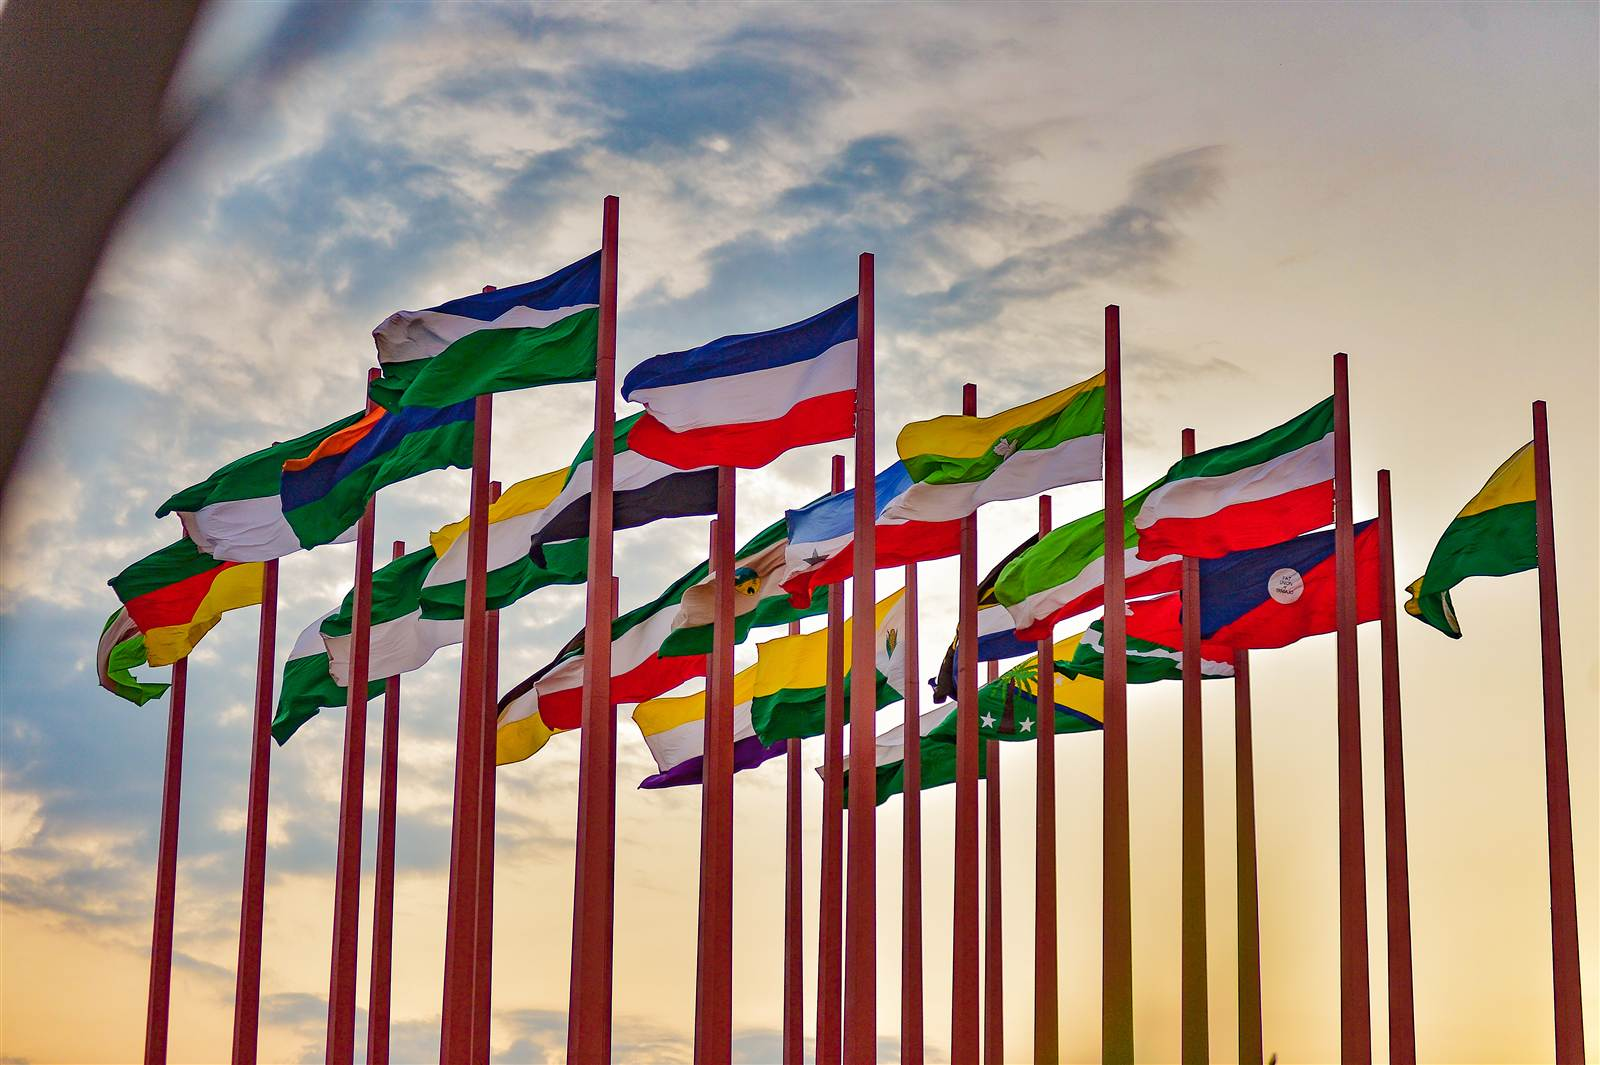
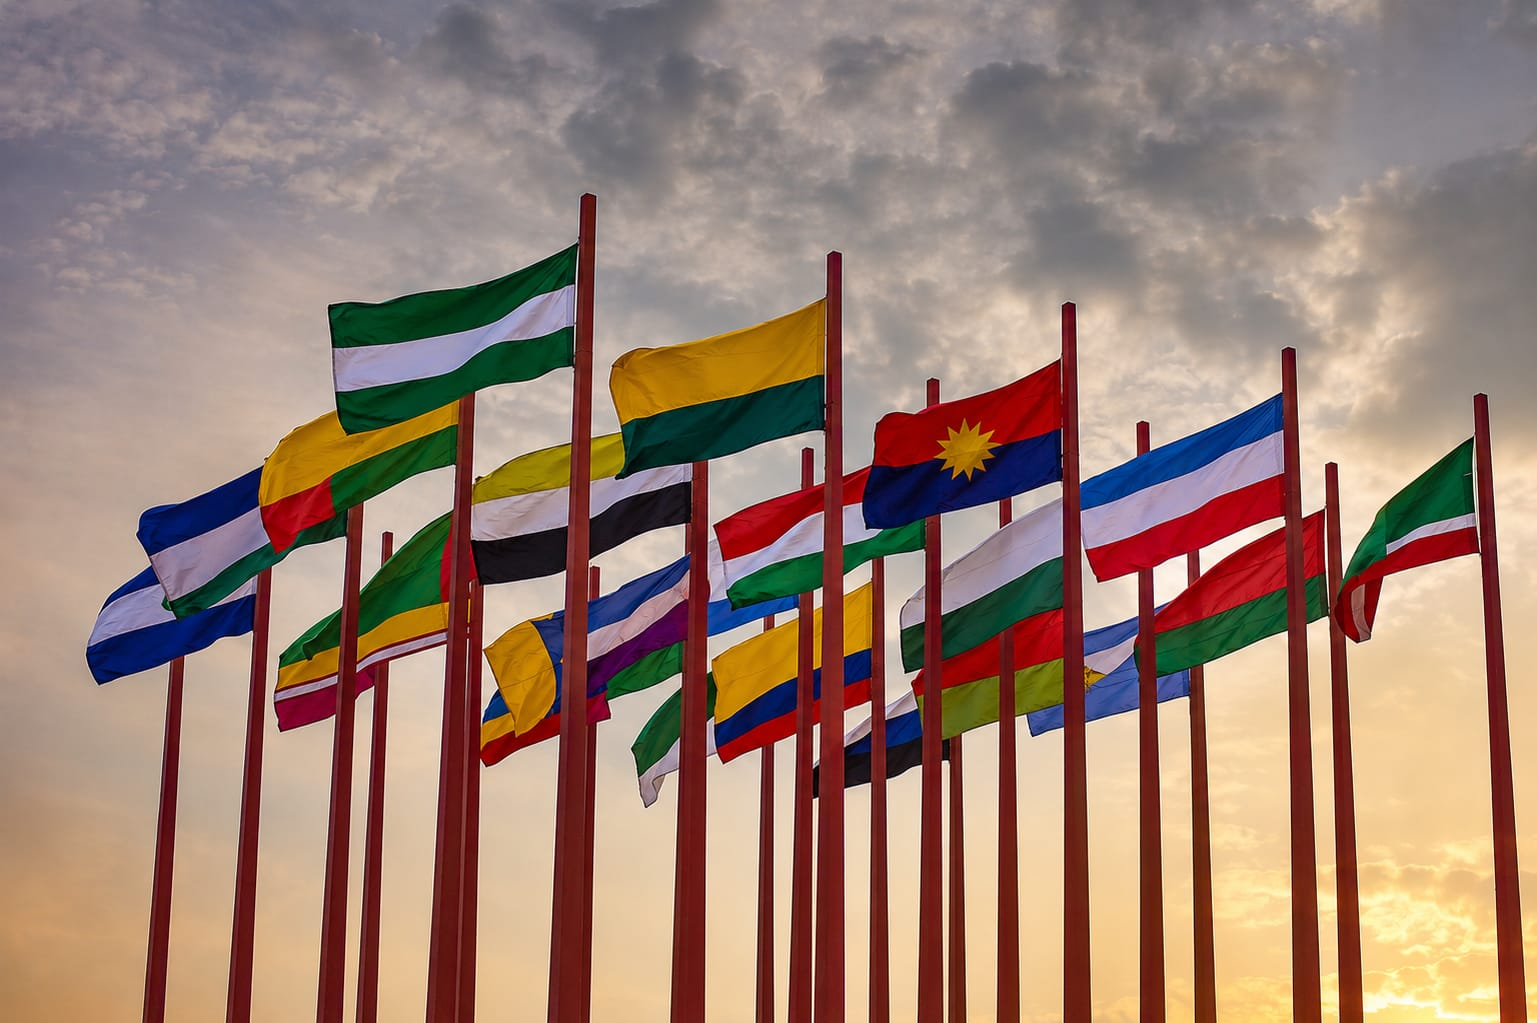
CTA del FAQ al estilo del sitio y fotos moviles en todo (v2.7.4)
- El CTA "No encontraste tu respuesta" del explorador de FAQ deja su
  degradado propio y pasa a tarjeta navy con los botones pill
  corporativos (ghost con borde blanco), con su modo oscuro.
- Variantes moviles -m.jpg (860px, 25-86KB) para las 14 fotos de las
  franjas de cierre, la ortofoto del visor y las 5 fotos de contenido
  (via srcSet). En celular ya NINGUNA imagen baja la version de
  escritorio: Nosotros pasa de ~700KB de fotos a 149KB.
- SITE_VERSION 2.7.3 -> 2.7.4.

diff --git a/app/globals.css b/app/globals.css
@@ -1659,18 +1659,16 @@ textarea.ne-input { resize: vertical; min-height: 96px; }
 .fq-none button:hover { background: var(--tt-blue-800); }
 
 /* CTA final */
+/* CTA final del FAQ — tarjeta navy sólida al estilo de las bandas oscuras
+   del rediseño, con los botones pill corporativos del sitio */
 .fq-cta { margin-top: 30px; display: flex; align-items: center; justify-content: space-between; gap: 18px; flex-wrap: wrap;
-  padding: 24px 26px; border-radius: 18px; color: #fff;
-  background: var(--hero-parcelas) no-repeat right -230px top -190px / 620px auto, var(--grad-hero); }
+  padding: 28px 30px; border-radius: 18px; color: #fff;
+  background: linear-gradient(135deg, #0C222F 0%, #163A4C 100%); }
 .fq-cta h2 { margin: 0; font: var(--fw-bold) var(--fs-lg)/1.25 var(--font-sans); color: #fff; }
 .fq-cta p { margin: 6px 0 0; font: var(--fw-regular) var(--fs-sm)/1.5 var(--font-sans); color: rgba(255,255,255,.82); }
 .fq-cta-actions { display: flex; gap: 10px; flex-wrap: wrap; }
-.fq-cta-btn { display: inline-flex; align-items: center; gap: 8px; height: 46px; padding: 0 20px; border-radius: 999px;
-  font: var(--fw-bold) var(--fs-sm)/1 var(--font-sans); text-decoration: none; transition: background .2s var(--ease-soft), transform .2s var(--ease-soft); }
-.fq-cta-btn.solid { background: var(--tt-green-600); color: #fff; }
-.fq-cta-btn.solid:hover { background: var(--tt-green-500); transform: translateY(-1px); }
-.fq-cta-btn.ghost { background: rgba(255,255,255,.1); border: 1px solid rgba(255,255,255,.35); color: #fff; }
-.fq-cta-btn.ghost:hover { background: rgba(255,255,255,.2); }
+.fq-cta .atg-pill.ghost { background: transparent; color: #fff; border-color: rgba(255,255,255,.55); }
+.fq-cta .atg-pill.ghost:hover { background: rgba(255,255,255,.14); }
 
 /* Casilla de consentimiento */
 .consent-label { display: flex; align-items: flex-start; gap: 11px; font: var(--fw-regular) var(--fs-sm)/1.5 var(--font-sans); color: var(--tt-gray-700); cursor: pointer; }
@@ -1917,10 +1915,8 @@ font[style] { background: none !important; box-shadow: none !important; transiti
 .dark .fq-cta { background: #131c23; border: 1px solid #2f3d47; }
 .dark .fq-cta h2 { color: #eaf1f6 !important; }
 .dark .fq-cta p { color: #c3d0d9; }
-.dark .fq-cta-btn.solid { background: var(--tt-green-600); color: #fff; }
-.dark .fq-cta-btn.solid:hover { background: var(--tt-green-500); }
-.dark .fq-cta-btn.ghost { background: rgba(255,255,255,.06); border-color: #3a4751; color: #eaf1f6; }
-.dark .fq-cta-btn.ghost:hover { background: rgba(255,255,255,.12); border-color: #4a5a66; }
+.dark .fq-cta .atg-pill.ghost { background: transparent; border-color: #3a4751; color: #eaf1f6; }
+.dark .fq-cta .atg-pill.ghost:hover { background: rgba(255,255,255,.12); }
 /* Anexos del PQRSD en modo oscuro */
 .dark .pq-drop { background: #0f171d; border-color: #3a4751; color: #c3d0d9; }
 .dark .pq-drop:hover { background: #13222b; border-color: var(--tt-green-500); }
@@ -2522,6 +2518,7 @@ font[style] { background: none !important; box-shadow: none !important; transiti
 .atg-mock-bar .d { width: 9px; height: 9px; border-radius: 50%; background: var(--tt-gray-300); opacity: .9; }
 .atg-mock-bar .title { font-family: var(--font-mono); font-size: 11px; color: var(--tt-gray-500); margin-left: 8px; letter-spacing: .04em; }
 .atg-map-body { position: relative; height: 320px; background: var(--tt-gray-50) url("/assets/foto-ortofoto.jpg") center/cover; }
+@media (max-width: 720px) { .atg-map-body { background-image: url("/assets/foto-ortofoto-m.jpg"); } }
 .atg-layers { position: absolute; left: 14px; top: 14px; display: flex; flex-direction: column; gap: 6px; }
 .atg-layers span {
   font-size: 11px; font-weight: 600; color: var(--tt-ink);
@@ -2593,9 +2590,14 @@ font[style] { background: none !important; box-shadow: none !important; transiti
 
 /* --- Franja fotográfica de cierre --- */
 .atg-photo-band {
+  --band-m: url("/assets/foto-banderas-m.jpg"); /* default: la franja del Inicio */
   background-image: linear-gradient(var(--photo-tint), var(--photo-tint)), url("/assets/foto-banderas.jpg");
   background-size: cover; background-position: center 30%;
   padding: 110px 0; text-align: center;
+}
+/* En celular la franja usa su variante liviana -m.jpg (cada página define --band-m) */
+@media (max-width: 720px) {
+  .atg-photo-band { background-image: linear-gradient(var(--photo-tint), var(--photo-tint)), var(--band-m) !important; }
 }
 @media (max-width: 720px) { .atg-photo-band { padding: 72px 0; } }
 .atg-photo-band .atg-eyebrow { color: rgba(255,255,255,.75); display: block; margin-bottom: 16px; }

diff --git a/app/atencion-ciudadania/page.tsx b/app/atencion-ciudadania/page.tsx
@@ -114,7 +114,7 @@ export default function AtencionCiudadaniaPage() {
             </div>
             <div className="atg-visual reveal">
               <div className="atg-mock">
-                <img className="atg-mock-photo" src="/assets/foto-dudas.jpg" alt="Ciudadano de Valledupar caminando por el centro de la ciudad" width={1600} height={1065} loading="lazy" decoding="async" />
+                <img className="atg-mock-photo" src="/assets/foto-dudas.jpg" srcSet="/assets/foto-dudas-m.jpg 860w, /assets/foto-dudas.jpg 1600w" sizes="(max-width: 900px) 100vw, 640px" alt="Ciudadano de Valledupar caminando por el centro de la ciudad" width={1600} height={1065} loading="lazy" decoding="async" />
               </div>
             </div>
           </div>
@@ -134,7 +134,7 @@ export default function AtencionCiudadaniaPage() {
                 Ver la carta de trato digno (PDF)
               </a>
             </div>
-            <img className="photo" src="/assets/foto-digno.jpg" alt="Ciudadano leyendo la prensa en un parque de Valledupar" loading="lazy" decoding="async" />
+            <img className="photo" src="/assets/foto-digno.jpg" srcSet="/assets/foto-digno-m.jpg 860w, /assets/foto-digno.jpg 1600w" sizes="(max-width: 900px) 100vw, 640px" alt="Ciudadano leyendo la prensa en un parque de Valledupar" loading="lazy" decoding="async" />
           </div>
         </div>
       </section>
@@ -142,7 +142,7 @@ export default function AtencionCiudadaniaPage() {
       {/* 5 · Franja fotográfica de cierre */}
       <section
         className="atg-photo-band"
-        style={{ backgroundImage: "linear-gradient(var(--photo-tint),var(--photo-tint)), url(/assets/foto-mayo.jpg)", backgroundPosition: "center 55%" }}
+        style={{ backgroundImage: "linear-gradient(var(--photo-tint),var(--photo-tint)), url(/assets/foto-mayo.jpg)", ["--band-m" as string]: "url(/assets/foto-mayo-m.jpg)", backgroundPosition: "center 55%" }}
       >
         <div className="atg-wrap">
           <h2>¿No encontraste lo que buscabas?</h2>

diff --git a/app/contactos/page.tsx b/app/contactos/page.tsx
@@ -55,7 +55,7 @@ export default function ContactosPage() {
               </ul>
               <a className="atg-pill" href="https://maps.app.goo.gl/M3GqdiRtVDRVe9NFA" target="_blank" rel="noopener noreferrer">Ver en Google Maps</a>
             </div>
-            <img className="photo" src="/assets/img-caja.jpg" alt="Sede de Tuterritorio — Edificio Caja Agraria, Valledupar" loading="lazy" decoding="async" width={1300} height={865} />
+            <img className="photo" src="/assets/img-caja.jpg" srcSet="/assets/img-caja-m.jpg 860w, /assets/img-caja.jpg 1600w" sizes="(max-width: 900px) 100vw, 640px" alt="Sede de Tuterritorio — Edificio Caja Agraria, Valledupar" loading="lazy" decoding="async" width={1300} height={865} />
           </div>
 
           <div className="atg-mock reveal" style={{ marginTop: 40 }}>
@@ -67,7 +67,7 @@ export default function ContactosPage() {
       {/* Franja fotográfica de cierre */}
       <section
         className="atg-photo-band"
-        style={{ backgroundImage: "linear-gradient(var(--photo-tint),var(--photo-tint)), url(/assets/foto-obelisco.jpg)", backgroundPosition: "center 30%" }}
+        style={{ backgroundImage: "linear-gradient(var(--photo-tint),var(--photo-tint)), url(/assets/foto-obelisco.jpg)", ["--band-m" as string]: "url(/assets/foto-obelisco-m.jpg)", backgroundPosition: "center 30%" }}
       >
         <div className="atg-wrap">
           <h2>También puedes radicar en línea</h2>

diff --git a/app/nosotros/page.tsx b/app/nosotros/page.tsx
@@ -119,7 +119,7 @@ export default function NosotrosPage() {
               <div className="atg-mock">
                 <img
                   className="atg-mock-photo"
-                  src="/assets/foto-catastro.jpg"
+                  src="/assets/foto-catastro.jpg" srcSet="/assets/foto-catastro-m.jpg 860w, /assets/foto-catastro.jpg 1600w" sizes="(max-width: 900px) 100vw, 640px"
                   alt="Sala de atención de Tuterritorio con los pendones de la Oficina de Catastro de Valledupar"
                   width={1600}
                   height={1067}
@@ -280,7 +280,7 @@ export default function NosotrosPage() {
       {/* 9 · Franja fotográfica de cierre */}
       <section
         className="atg-photo-band"
-        style={{ backgroundImage: "linear-gradient(var(--photo-tint),var(--photo-tint)), url(/assets/foto-rio.jpg)", backgroundPosition: "center 50%" }}
+        style={{ backgroundImage: "linear-gradient(var(--photo-tint),var(--photo-tint)), url(/assets/foto-rio.jpg)", ["--band-m" as string]: "url(/assets/foto-rio-m.jpg)", backgroundPosition: "center 50%" }}
       >
         <div className="atg-wrap">
           <h2>Visítanos en nuestra sede principal</h2>

diff --git a/components/faq/FaqExplorer.tsx b/components/faq/FaqExplorer.tsx
@@ -136,8 +136,8 @@ export default function FaqExplorer() {
           <p>Escríbenos y te responderemos dentro de los términos de ley.</p>
         </div>
         <div className="fq-cta-actions">
-          <Link href="/pqrsd" className="fq-cta-btn solid">Radica tu PQRSD</Link>
-          <Link href="/contactos" className="fq-cta-btn ghost">Canales de atención</Link>
+          <Link href="/pqrsd" className="atg-pill">Radica tu PQRSD</Link>
+          <Link href="/contactos" className="atg-pill ghost">Canales de atención</Link>
         </div>
       </div>
     </div>

diff --git a/app/nosotros/equipo/page.tsx b/app/nosotros/equipo/page.tsx
@@ -44,7 +44,7 @@ export default function EquipoPage() {
       {/* 4 · Franja fotográfica de cierre */}
       <section
         className="atg-photo-band"
-        style={{ backgroundImage: "linear-gradient(var(--photo-tint),var(--photo-tint)), url(/assets/foto-mulata.jpg)", backgroundPosition: "center 42%" }}
+        style={{ backgroundImage: "linear-gradient(var(--photo-tint),var(--photo-tint)), url(/assets/foto-mulata.jpg)", ["--band-m" as string]: "url(/assets/foto-mulata-m.jpg)", backgroundPosition: "center 42%" }}
       >
         <div className="atg-wrap">
           <h2>Un equipo que responde por tu predio</h2>

diff --git a/app/noticias/page.tsx b/app/noticias/page.tsx
@@ -16,7 +16,7 @@ export default function NoticiasPage() {
       {/* Franja fotográfica de cierre */}
       <section
         className="atg-photo-band"
-        style={{ backgroundImage: "linear-gradient(var(--photo-tint),var(--photo-tint)), url(/assets/foto-musicos.jpg)", backgroundPosition: "center 55%" }}
+        style={{ backgroundImage: "linear-gradient(var(--photo-tint),var(--photo-tint)), url(/assets/foto-musicos.jpg)", ["--band-m" as string]: "url(/assets/foto-musicos-m.jpg)", backgroundPosition: "center 55%" }}
       >
         <div className="atg-wrap">
           <h2>El territorio también es noticia</h2>

diff --git a/app/page.tsx b/app/page.tsx
@@ -78,7 +78,7 @@ export default function HomePage() {
             </div>
             <div className="atg-visual reveal">
               <div className="atg-mock">
-                <img className="atg-mock-photo" src="/assets/foto-archivo.jpg" alt="Funcionario consultando expedientes en el archivo catastral" width={1200} height={800} loading="lazy" decoding="async" />
+                <img className="atg-mock-photo" src="/assets/foto-archivo.jpg" srcSet="/assets/foto-archivo-m.jpg 860w, /assets/foto-archivo.jpg 1600w" sizes="(max-width: 900px) 100vw, 640px" alt="Funcionario consultando expedientes en el archivo catastral" width={1200} height={800} loading="lazy" decoding="async" />
               </div>
             </div>
           </div>

diff --git a/app/pqrsd/page.tsx b/app/pqrsd/page.tsx
@@ -47,7 +47,7 @@ export default function PqrsdPage() {
       {/* 3 · Franja fotográfica de cierre */}
       <section
         className="atg-photo-band"
-        style={{ backgroundImage: "linear-gradient(var(--photo-tint),var(--photo-tint)), url(/assets/foto-juglares.jpg)", backgroundPosition: "center 83%" }}
+        style={{ backgroundImage: "linear-gradient(var(--photo-tint),var(--photo-tint)), url(/assets/foto-juglares.jpg)", ["--band-m" as string]: "url(/assets/foto-juglares-m.jpg)", backgroundPosition: "center 83%" }}
       >
         <div className="atg-wrap">
           <h2>Resuelve tus dudas antes de radicar</h2>

diff --git a/app/preguntas-frecuentes/page.tsx b/app/preguntas-frecuentes/page.tsx
@@ -47,7 +47,7 @@ export default function PreguntasFrecuentesPage() {
       {/* Franja fotográfica de cierre */}
       <section
         className="atg-photo-band"
-        style={{ backgroundImage: "linear-gradient(var(--photo-tint),var(--photo-tint)), url(/assets/foto-poporos.jpg)", backgroundPosition: "center 55%" }}
+        style={{ backgroundImage: "linear-gradient(var(--photo-tint),var(--photo-tint)), url(/assets/foto-poporos.jpg)", ["--band-m" as string]: "url(/assets/foto-poporos-m.jpg)", backgroundPosition: "center 55%" }}
       >
         <div className="atg-wrap">
           <h2>¿No encontraste tu respuesta?</h2>

diff --git a/app/recursos/glosario/page.tsx b/app/recursos/glosario/page.tsx
@@ -29,7 +29,7 @@ export default function GlosarioPage() {
       {/* Franja fotográfica de cierre */}
       <section
         className="atg-photo-band"
-        style={{ backgroundImage: "linear-gradient(var(--photo-tint),var(--photo-tint)), url(/assets/foto-pilonera.jpg)", backgroundPosition: "center 37%" }}
+        style={{ backgroundImage: "linear-gradient(var(--photo-tint),var(--photo-tint)), url(/assets/foto-pilonera.jpg)", ["--band-m" as string]: "url(/assets/foto-pilonera-m.jpg)", backgroundPosition: "center 37%" }}
       >
         <div className="atg-wrap">
           <h2>Aplica lo aprendido en tu trámite</h2>

diff --git a/app/recursos/normativas/page.tsx b/app/recursos/normativas/page.tsx
@@ -29,7 +29,7 @@ export default function NormativasPage() {
       {/* Franja fotográfica de cierre */}
       <section
         className="atg-photo-band"
-        style={{ backgroundImage: "linear-gradient(var(--photo-tint),var(--photo-tint)), url(/assets/foto-madres.jpg)", backgroundPosition: "center 45%" }}
+        style={{ backgroundImage: "linear-gradient(var(--photo-tint),var(--photo-tint)), url(/assets/foto-madres.jpg)", ["--band-m" as string]: "url(/assets/foto-madres-m.jpg)", backgroundPosition: "center 45%" }}
       >
         <div className="atg-wrap">
           <h2>¿Términos que no conoces?</h2>